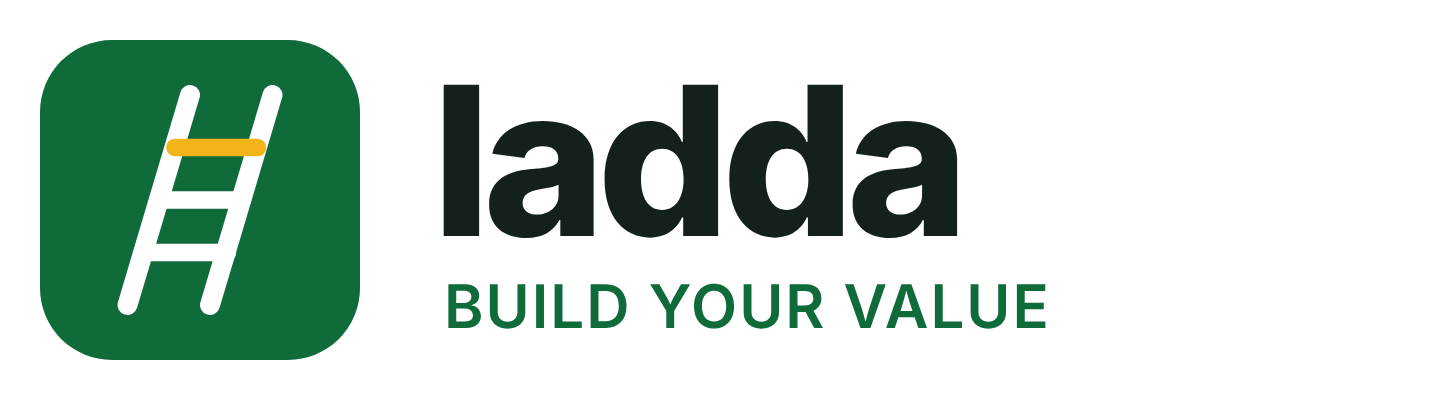
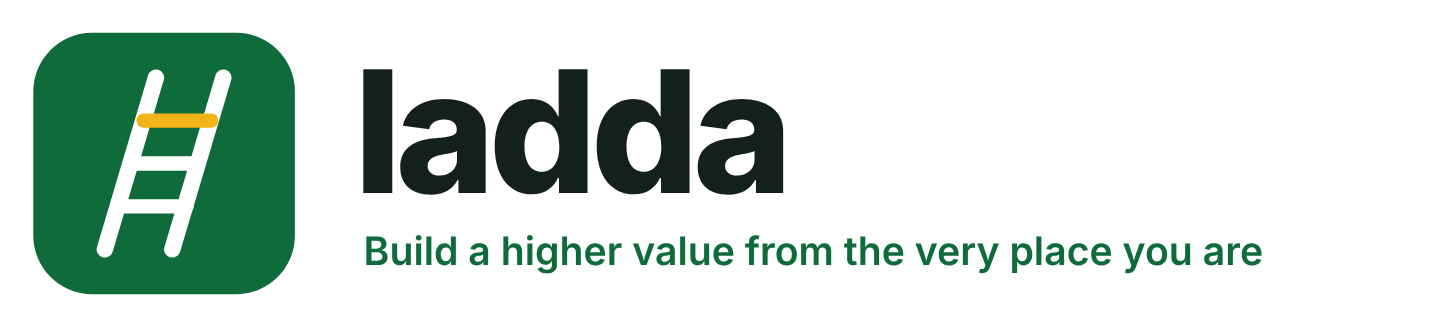
feat(brand): change the tagline to 'Build a higher value from the very place you are'
Claude-Session: https://claude.ai/code/session_01DegLqyTp4ZUoS4YrEwk5ih

diff --git a/brand/README.md b/brand/README.md
@@ -1,6 +1,8 @@
 # Ladda brand guide (v0.1, 24 October 2026)
 
-Product brand: **Ladda**. Tagline: **Build your value**. Parent line: **a SoundTechWorks
+Product brand: **Ladda**. Tagline: **Build a higher value from the very place you are**
+(changed from "Build your value" on 24 October 2026; the short form survives as the working
+product name and the repository name). Parent line: **a SoundTechWorks
 solution**. "Build Your Value" stays the working name in code and documents until the
 domain, CAC, trademark and social-handle checks below pass; the brand files here are ready
 to switch over the moment they do.
